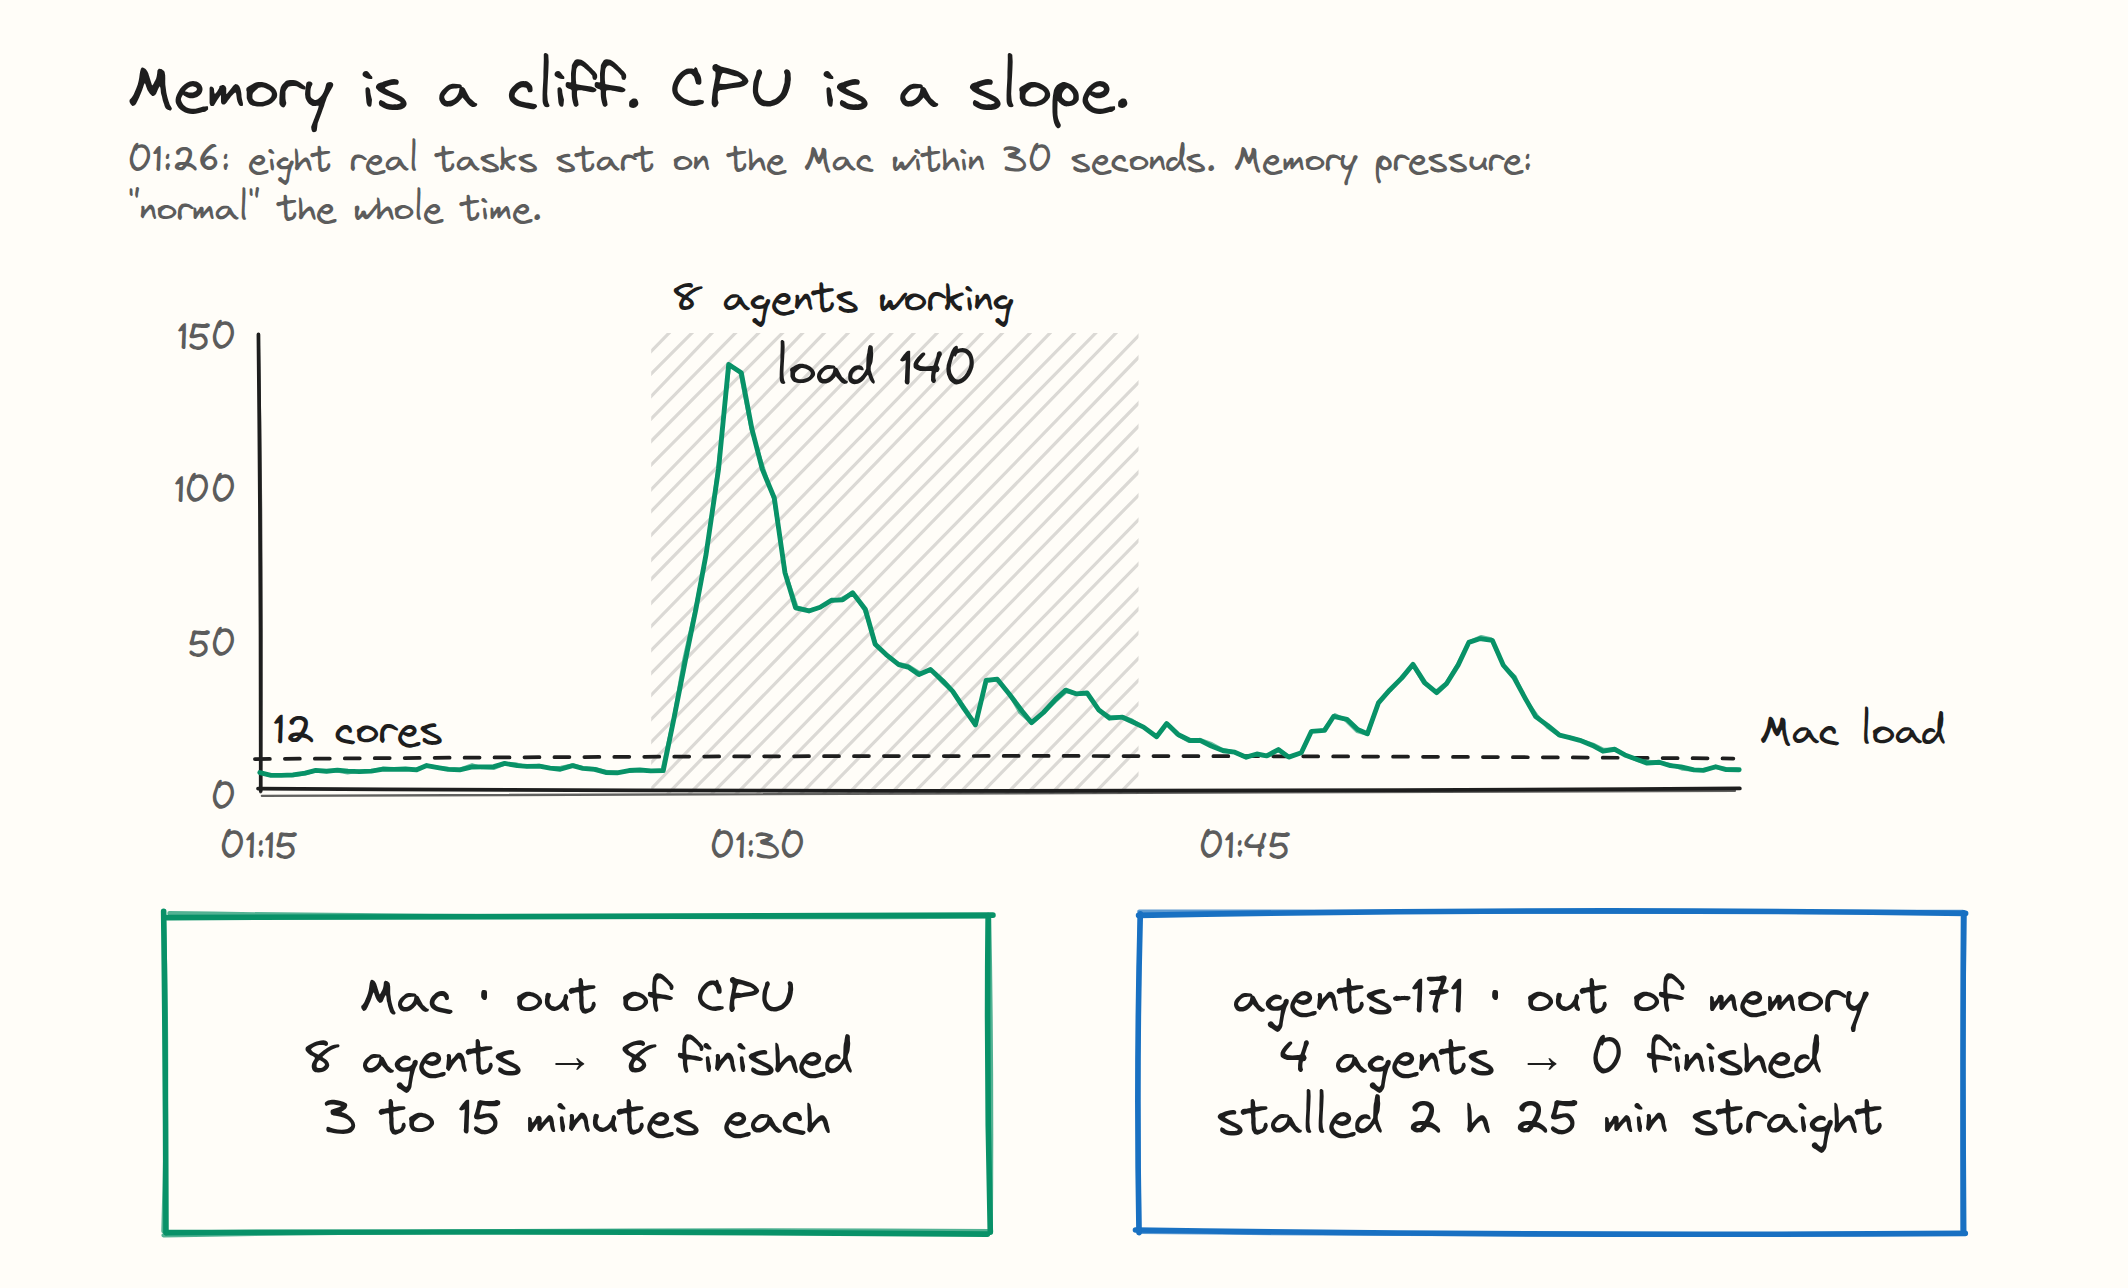
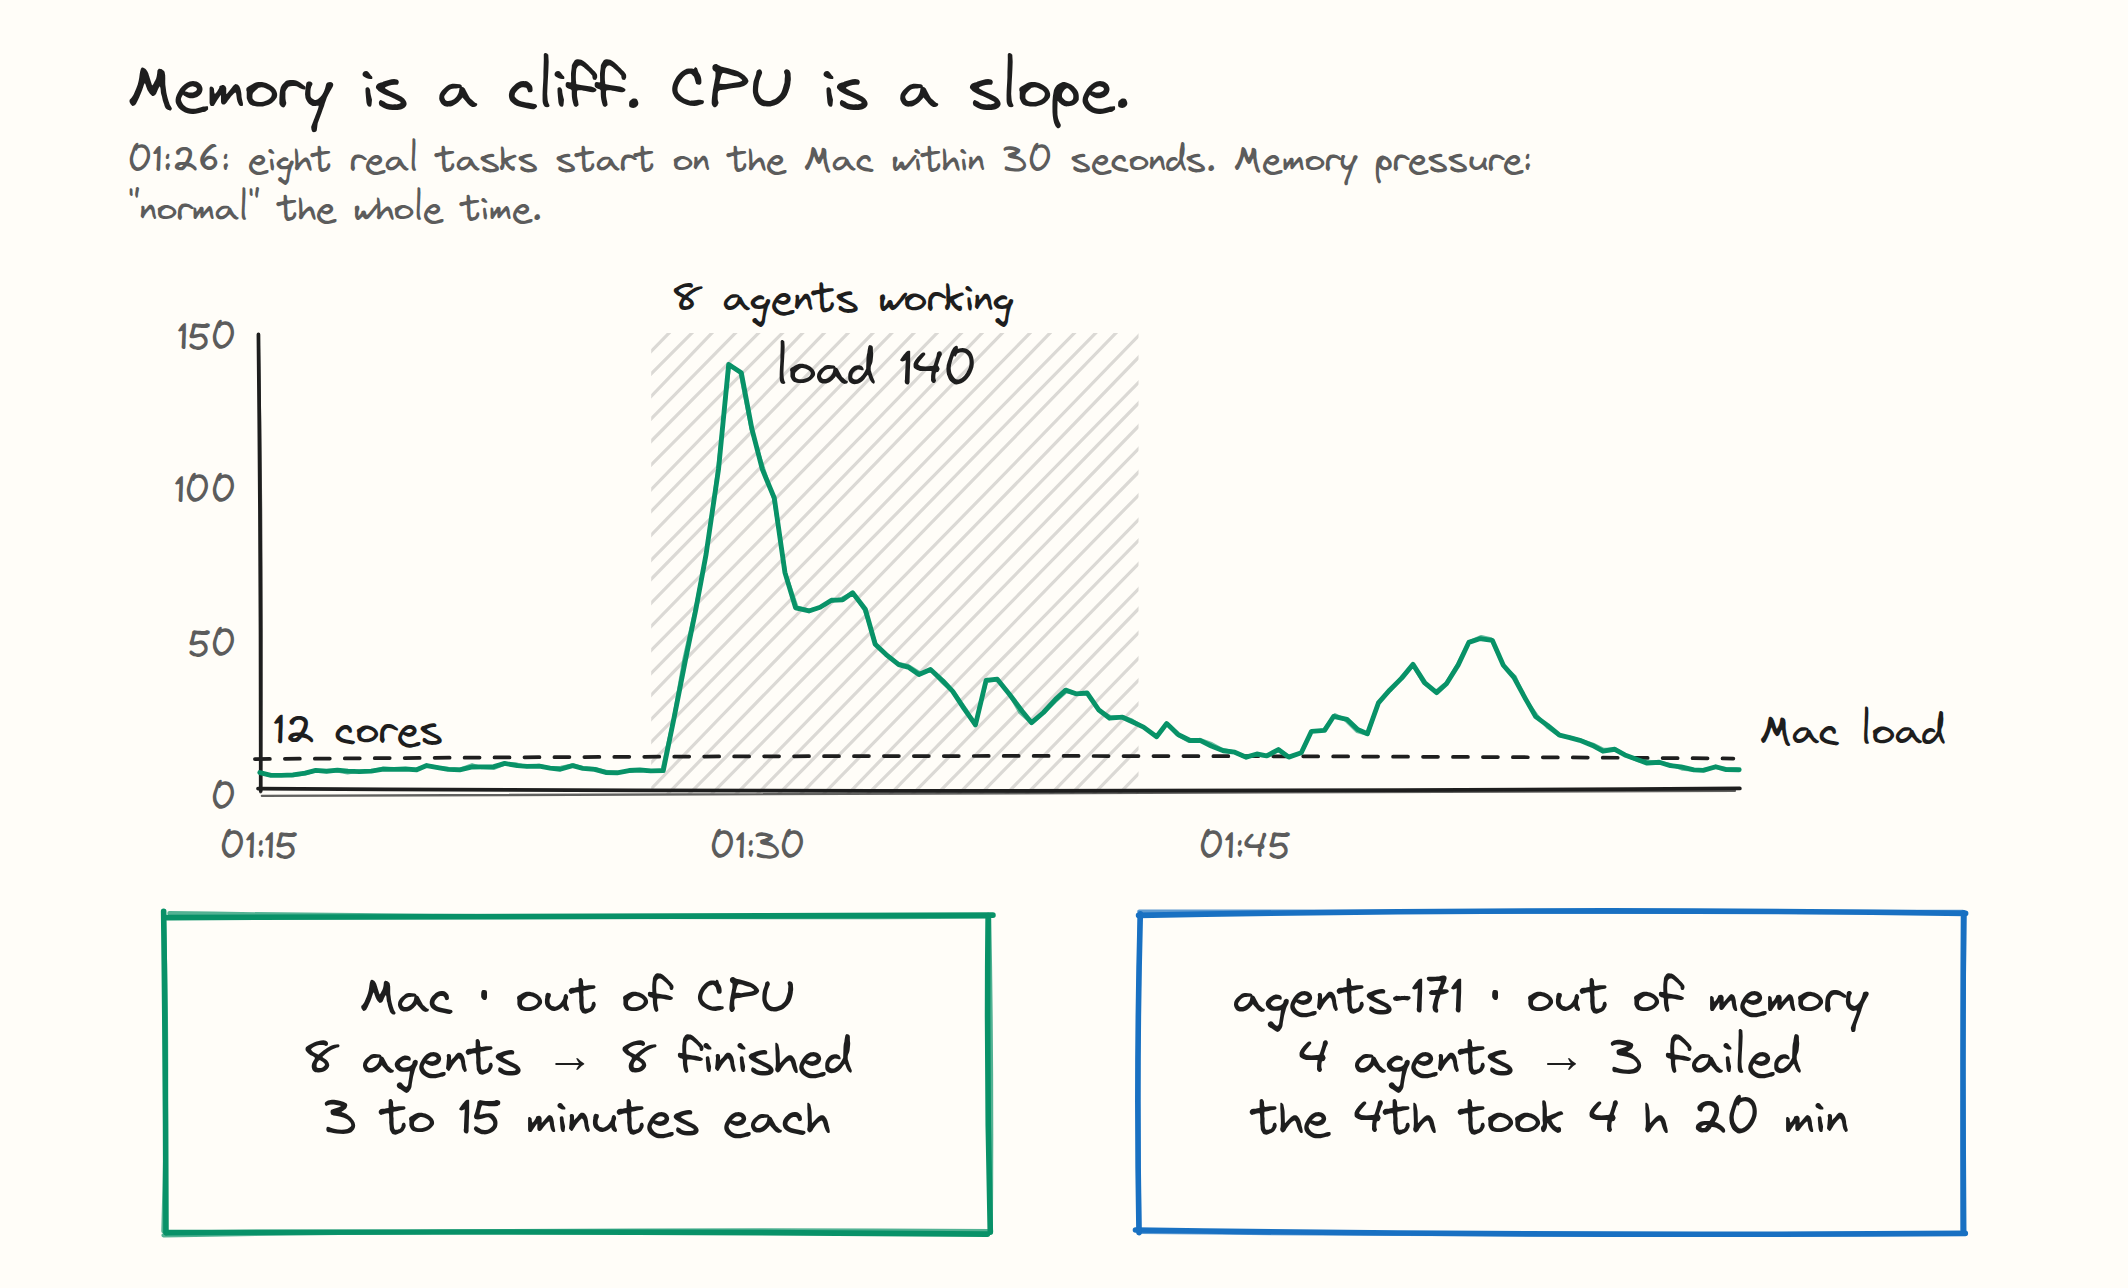
Correct the agents-171 outcome: three failed after ~4 h, the fourth took 4 h 20 min

Changed region(s): [[0.5893, 0.8075, 0.8684, 0.9006]]

diff --git a/presentation.html b/presentation.html
@@ -377,7 +377,7 @@ document.getElementById("mac-say").textContent = `${mb.agents[0].slice(0, 5)}: e
   box(g, 20, 20, 440, 170, { stroke: "var(--m3)", width: 3 });
   lines(g, 240, 72, ["Mac · out of CPU", "8 agents → 8 finished", "3 to 15 minutes each"], { size: 26, anchor: "middle" });
   box(g, 540, 20, 440, 170, { stroke: "var(--m1)", width: 3 });
-  lines(g, 760, 72, ["agents-171 · out of memory", "4 agents → 0 finished", `stalled ${days(D.streaks["agents-171"].minutes)} straight`], { size: 26, anchor: "middle" });
+  lines(g, 760, 72, ["agents-171 · out of memory", "4 agents → 3 failed", "the 4th took 4 h 20 min"], { size: 26, anchor: "middle" });
 }
 
 // 8. What one more agent costs.
